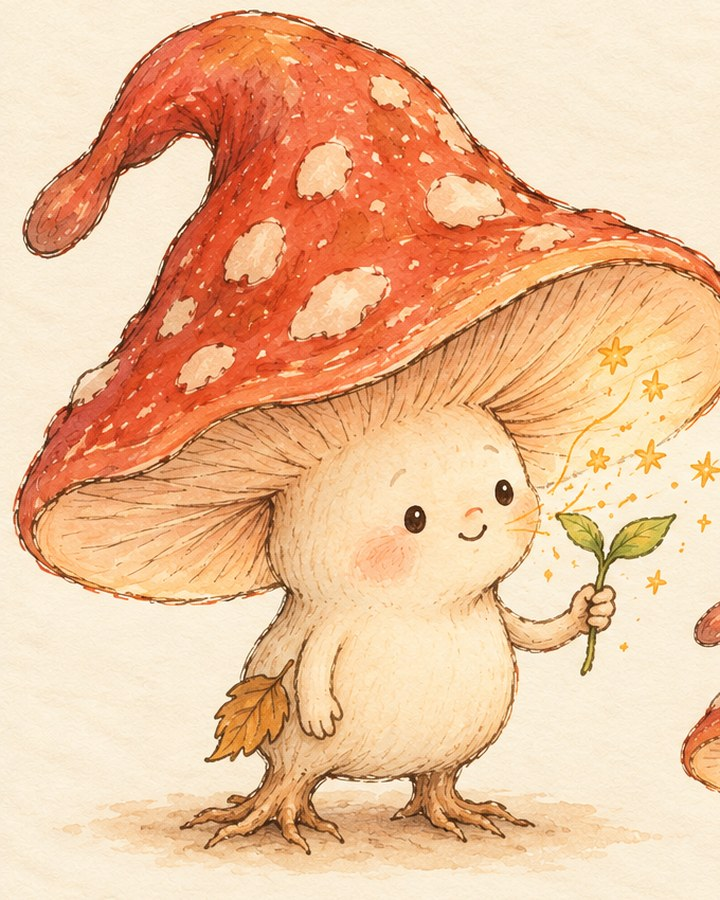
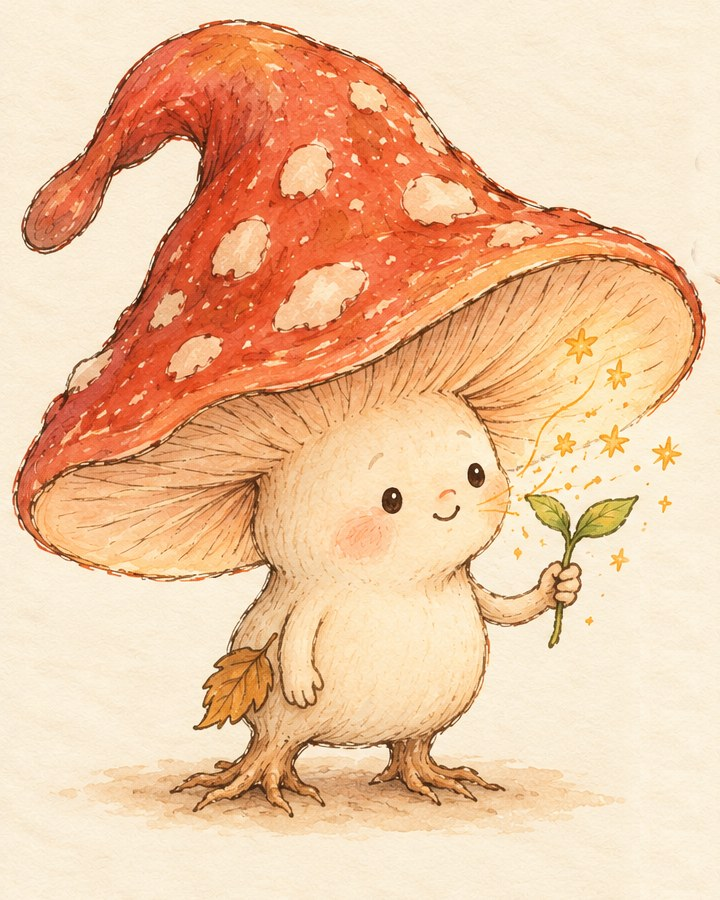
Polish Dengrong and Gutuan scene details

diff --git a/ip.css b/ip.css
@@ -473,18 +473,20 @@ html[lang="en"] .character-card__quote {
 .scene-script {
   max-width: 62rem;
   margin: 0 auto;
-  padding: clamp(1.5rem, 4vw, 4rem);
   display: grid;
-  gap: 1px;
-  border: 1px solid rgba(246, 234, 216, 0.14);
-  background: rgba(246, 234, 216, 0.12);
+  border: 1px solid rgba(242, 184, 75, 0.26);
+  background: transparent;
 }
 
 .scene-line {
   --scene-accent: var(--gold);
   margin: 0;
   padding: clamp(1.15rem, 2.3vw, 2rem);
-  background: rgba(5, 5, 5, 0.92);
+  background: rgba(5, 5, 5, 0.54);
+}
+
+.scene-line + .scene-line {
+  border-top: 1px solid rgba(246, 234, 216, 0.07);
 }
 
 .scene-line--gutuan {
@@ -498,7 +500,7 @@ html[lang="en"] .character-card__quote {
 
 .scene-line__cue {
   color: var(--paper-muted);
-  font-size: 0.75rem;
+  font-size: 0.875rem;
   line-height: 1.6;
 }
 
@@ -509,7 +511,7 @@ html[lang="en"] .character-card__quote {
 }
 
 .scene-line__action {
-  color: rgba(242, 237, 227, 0.5);
+  color: rgba(242, 237, 227, 0.74);
 }
 
 .scene-line__dialogue {
@@ -524,9 +526,9 @@ html[lang="en"] .character-card__quote {
 .scene-line--direction {
   padding-left: clamp(2rem, 8vw, 8rem);
   padding-right: clamp(2rem, 8vw, 8rem);
-  color: rgba(246, 234, 216, 0.56);
+  color: rgba(246, 234, 216, 0.74);
   font-family: var(--serif-zh);
-  font-size: 0.86rem;
+  font-size: 0.875rem;
   font-style: italic;
   line-height: 1.85;
   text-align: center;
@@ -933,12 +935,13 @@ html[lang="en"] .character-card__quote {
     gap: 0.55rem;
   }
 
-  .scene-script {
-    padding: 1px;
-  }
-
   .scene-line {
     padding: 1.15rem;
+  }
+
+  .scene-line__cue,
+  .scene-line--direction {
+    font-size: 0.8125rem;
   }
 
   .scene-line--direction {
